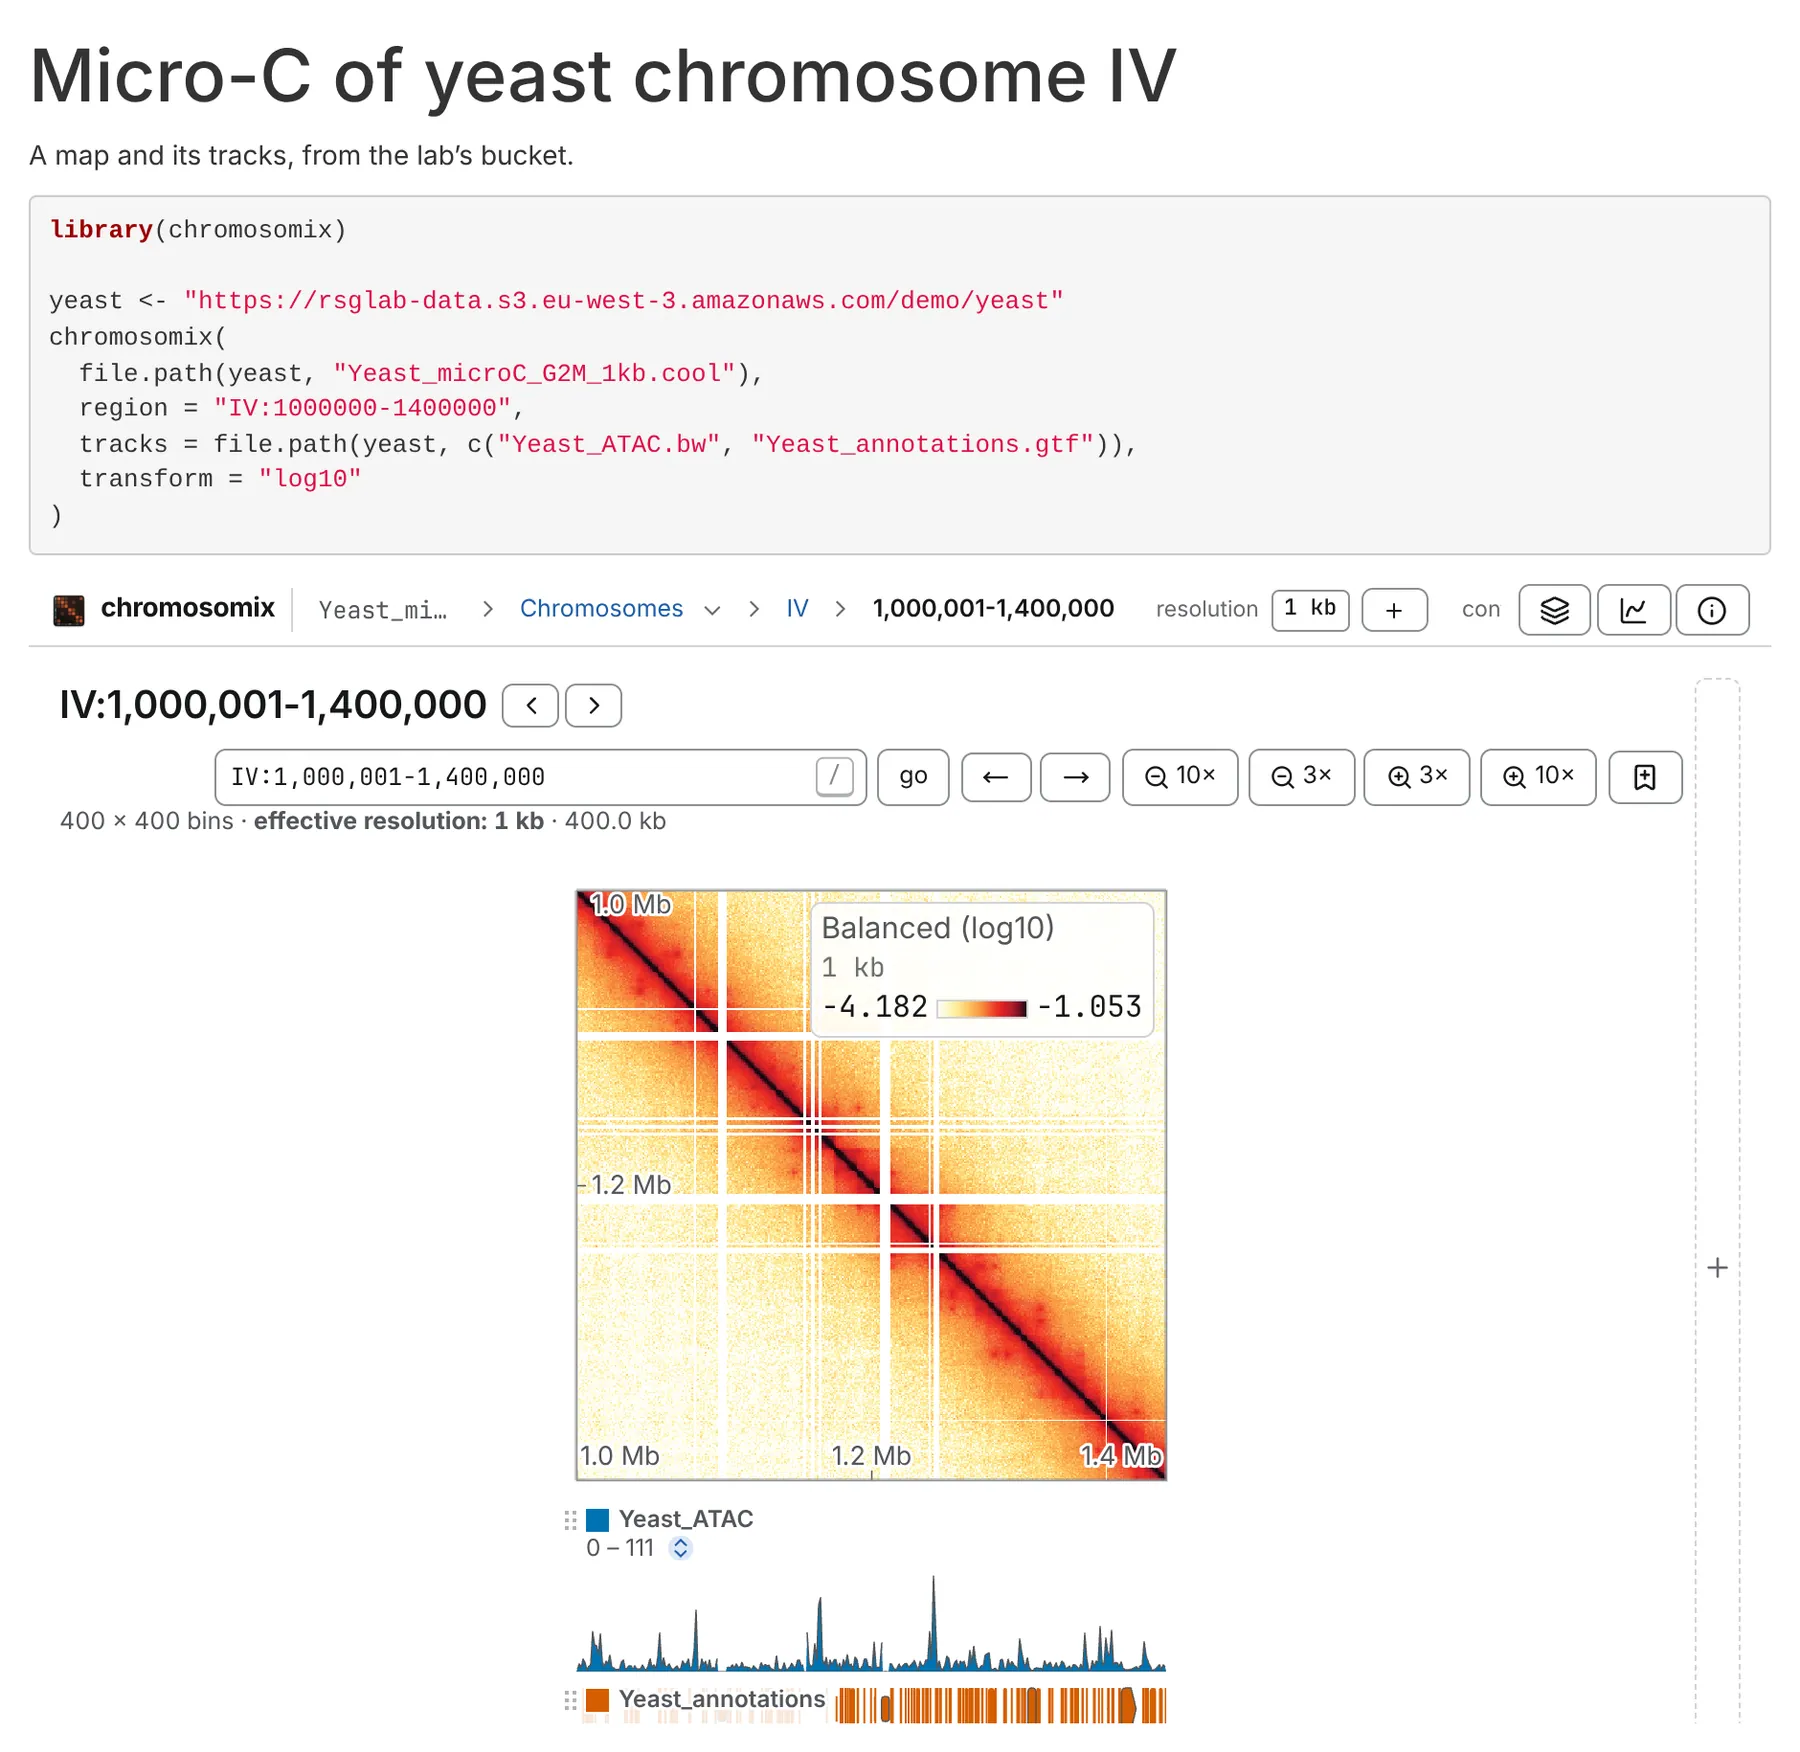
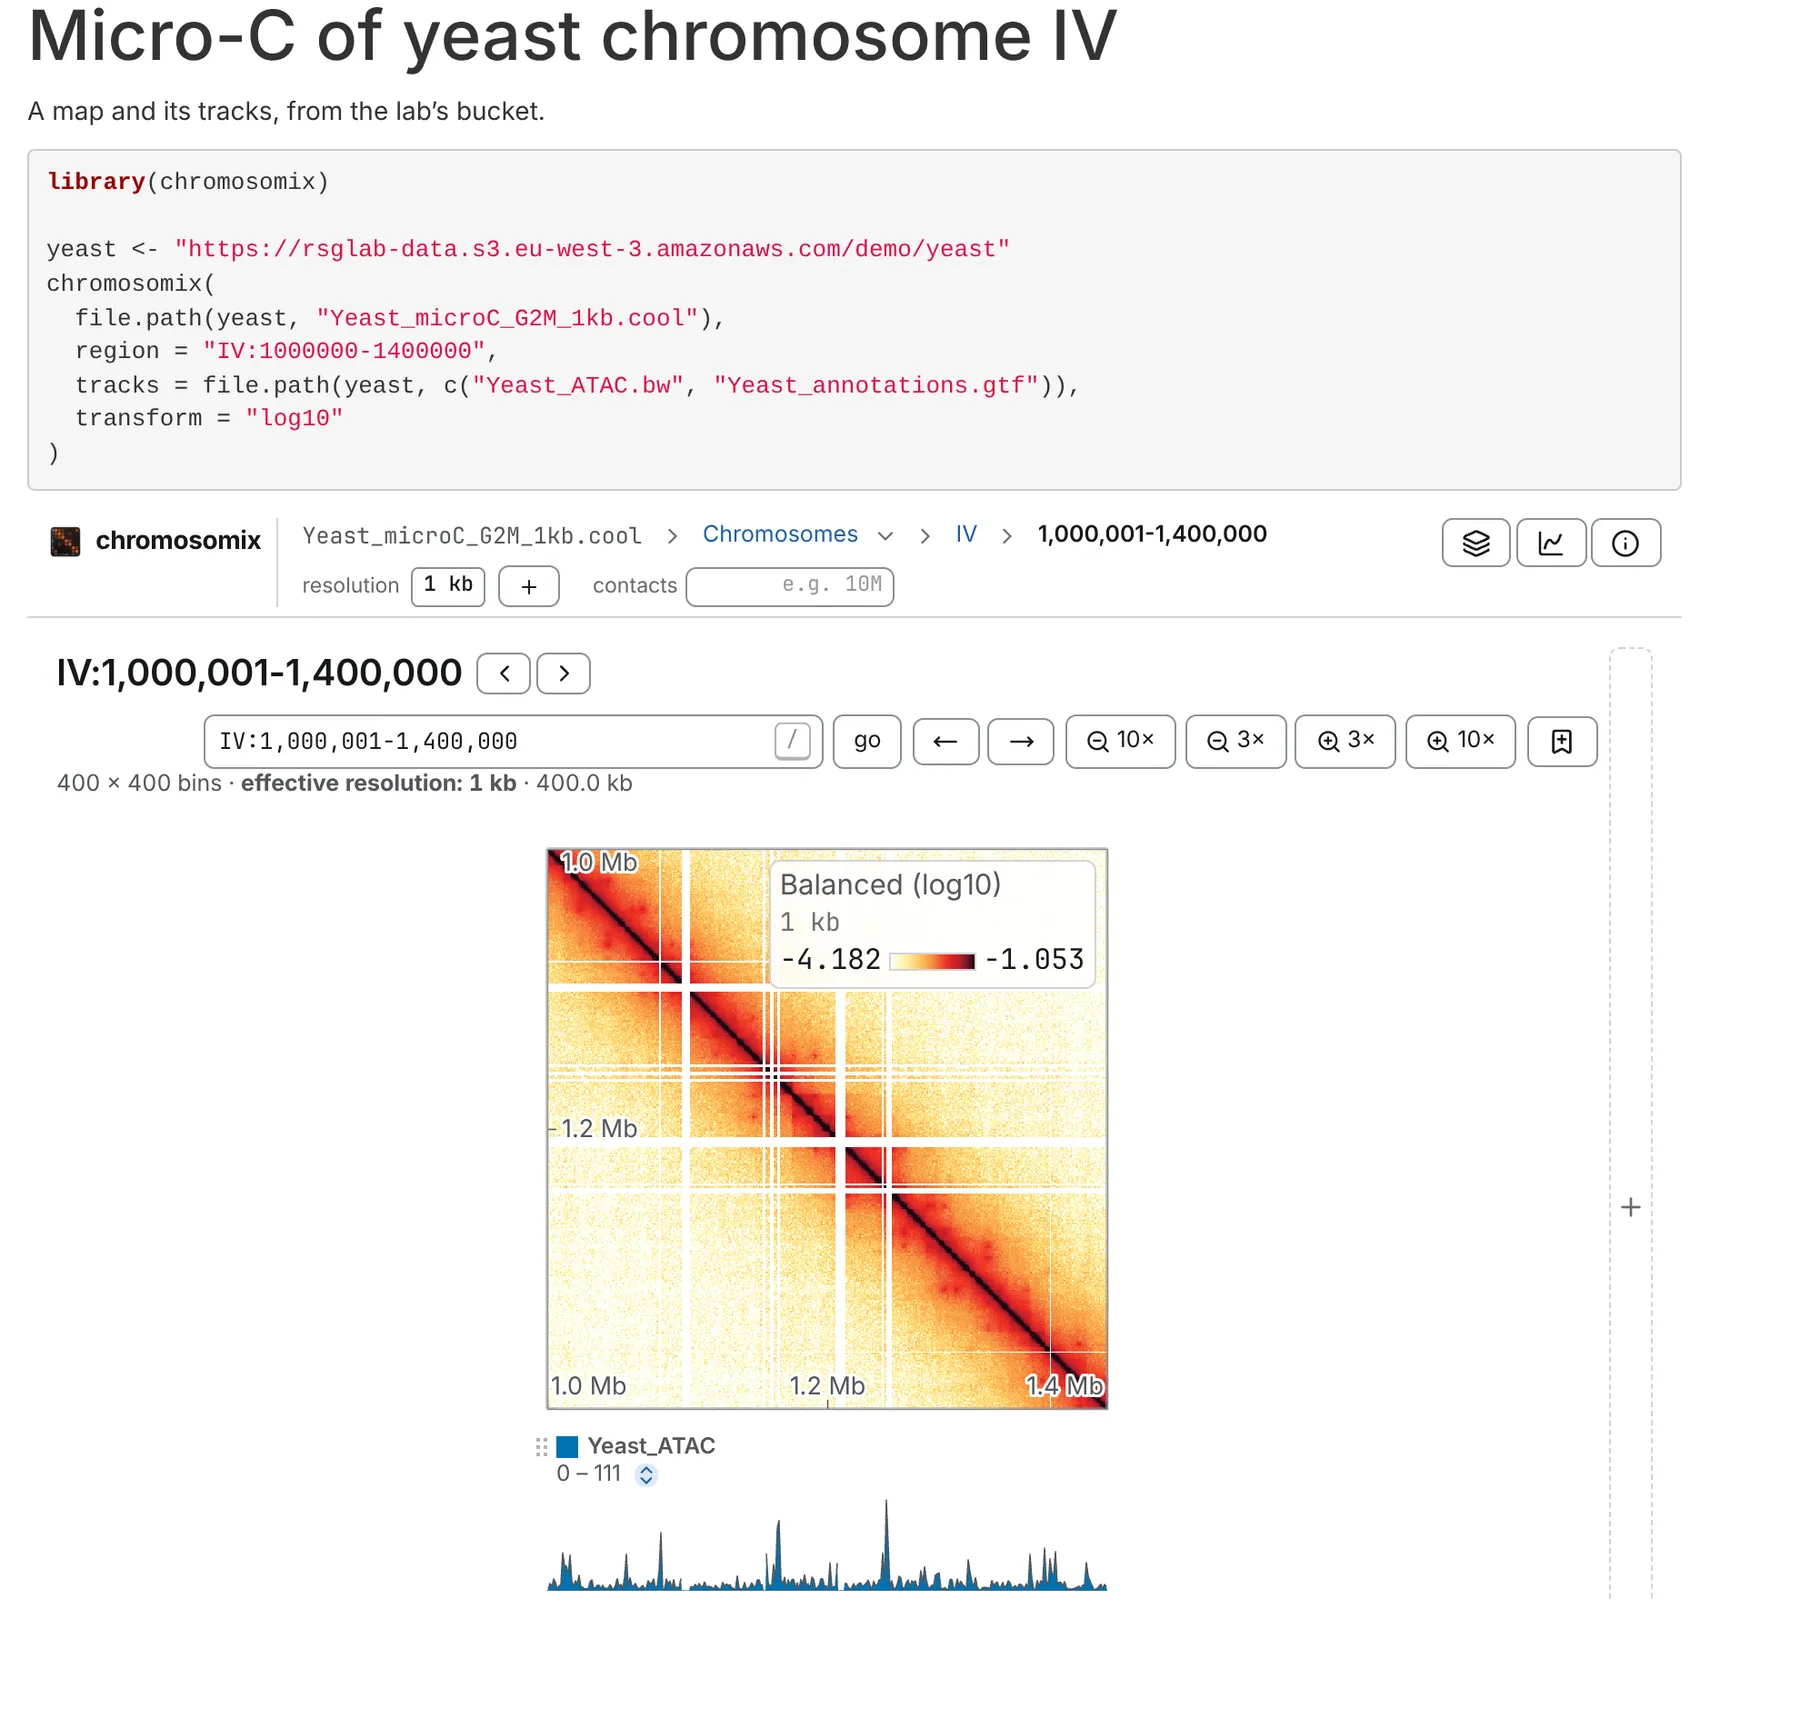
Fit the embed's bar to narrower frames
The embed's one bar is the breadcrumb row with the brand before it and
three buttons after, and the row scrolled: in a 1,040-pixel frame the
contacts box's example was cut, at 910 (an R Markdown page) the row
ended at `con`, at 720 the resolution and the box were out of sight,
and at 480 the frame scrolled sideways.

Inside the frame the viewport is the frame, so the bar now answers
media queries, in an order. Below 72rem the two controls of how the
picture is drawn take a line of their own under the trail, together
and labelled: a zero-height break ordered between the trail and them,
since plain wrapping took the box away from the resolution first. The
trail then names the file in full where it fits. Below 50rem the brand
keeps its mark; below 34rem the contacts box is put away and the
resolution kept. The brand and the buttons stay on the first line.

A text test holds the order, as deck-plot-css does, since jsdom has no
layout. SPECS §21.3 and the web page and R pages say it, and their two
pictures are shot again at the widths they were shot at.

Claude-Session: https://claude.ai/code/session_01QfBPScuoXjxFCo2qEinH72

diff --git a/test/unit/embed-bar-css.test.ts b/test/unit/embed-bar-css.test.ts
@@ -1,0 +1,85 @@
+/**
+ * The order an embed's one bar gives way in, as its frame narrows (SPECS §21.3).
+ *
+ * The bar is the breadcrumb row with the brand before it and three buttons
+ * after, and the row scrolled: in a frame of 1,040 pixels the contacts box's
+ * example was cut, at 910 — an R Markdown page — the row ended at `con`, and at
+ * 720 the resolution and the box were gone with nothing to say they were
+ * there. Inside the frame the viewport is the frame, so the bar answers media
+ * queries, and what is pinned here is their order:
+ *
+ * 1. the two controls of how the picture is drawn take a line of their own,
+ *    *together* — a zero-height break ordered between the trail and them, since
+ *    plain wrapping takes the last item, the box, away from the resolution;
+ * 2. then the brand's name goes, its mark staying;
+ * 3. then, at a phone's width, the contacts box — never the resolution.
+ *
+ * A text test, as `deck-plot-css.test.ts` is, because jsdom has no layout.
+ */
+
+import { readFileSync } from 'node:fs'
+import { fileURLToPath } from 'node:url'
+
+import { describe, expect, it } from 'vitest'
+
+const css = readFileSync(fileURLToPath(new URL('../../src/ui/styles.css', import.meta.url)), 'utf8')
+
+/** Every `@media (max-width: …rem)` block, with its width and its body, braces matched. */
+function mediaBlocks(): Array<{ rem: number; body: string }> {
+  const out: Array<{ rem: number; body: string }> = []
+  const opener = /@media \(max-width: ([\d.]+)rem\) \{/g
+  for (let match = opener.exec(css); match !== null; match = opener.exec(css)) {
+    let depth = 1
+    let at = opener.lastIndex
+    while (depth > 0 && at < css.length) {
+      if (css[at] === '{') depth++
+      else if (css[at] === '}') depth--
+      at++
+    }
+    out.push({ rem: Number(match[1]), body: css.slice(opener.lastIndex, at - 1) })
+  }
+  return out
+}
+
+/** The width of the one block that holds `needle`, which must be exactly one. */
+function widthOf(needle: RegExp): number {
+  const blocks = mediaBlocks().filter((block) => needle.test(block.body))
+  expect(blocks, `one @media block holds ${needle}`).toHaveLength(1)
+  return blocks[0].rem
+}
+
+/** The declarations of `selector` inside the block of width `rem`. */
+function declarationsIn(rem: number, selector: string): string {
+  const block = mediaBlocks().find((candidate) => candidate.rem === rem)
+  expect(block, `a block at ${rem}rem`).toBeDefined()
+  const at = block?.body.indexOf(`${selector} {`) ?? -1
+  expect(at, `${selector} at ${rem}rem`).toBeGreaterThanOrEqual(0)
+  const body = block?.body.slice(at) ?? ''
+  return body.slice(body.indexOf('{') + 1, body.indexOf('}'))
+}
+
+describe('the embed’s bar in a narrowing frame', () => {
+  const ownLine = widthOf(/\.embed-bar \.breadcrumb::before/)
+  const noName = widthOf(/\.embed-brand-name \{\s*display: none/)
+  const noBox = widthOf(/\.embed-bar \.breadcrumb > \.crumb-contacts \{\s*display: none/)
+
+  it('gives way in one order: the controls’ own line, then the brand’s name, then the box', () => {
+    expect(ownLine).toBeGreaterThan(noName)
+    expect(noName).toBeGreaterThan(noBox)
+  })
+
+  it('moves the resolution and the box together, after a break that takes the whole line', () => {
+    expect(declarationsIn(ownLine, '.embed-bar .breadcrumb')).toMatch(/flex-wrap: wrap/)
+    const rule = declarationsIn(ownLine, '.embed-bar .breadcrumb::before')
+    expect(rule).toMatch(/order: 1/)
+    expect(rule).toMatch(/flex: 0 0 100%/)
+    const controls = mediaBlocks().find((block) => block.rem === ownLine)?.body ?? ''
+    expect(controls).toMatch(/\.embed-bar \.breadcrumb > \.crumb-res,\s*\.embed-bar \.breadcrumb > \.crumb-contacts \{\s*order: 2/)
+  })
+
+  it('never puts the resolution away', () => {
+    for (const block of mediaBlocks()) {
+      expect(block.body, `@media (max-width: ${block.rem}rem)`).not.toMatch(/\.crumb-res[^{]*\{[^}]*display: none/)
+    }
+  })
+})

diff --git a/src/ui/styles.css b/src/ui/styles.css
@@ -1738,6 +1738,75 @@ p {
 }
 
 /*
+ * **A narrower frame gives way in an order, rather than clipping the row's
+ * end** (§21.3). The breadcrumb is one row that scrolls, and the end that
+ * scrolled out of sight was the resolution and the contacts box: at 1,040
+ * pixels the box's example was cut, at 910 — an R Markdown page's width — the
+ * row ended at `con`, and at 720 the two were gone, with nothing saying they
+ * were there to be scrolled to. Frames that narrow are where an embed lives: a
+ * notebook cell, a rendered report, a paper's supplement.
+ *
+ * In the frame the viewport *is* the frame, so these are media queries. First
+ * the two controls that say how the picture is drawn take a line of their own
+ * under the trail, together and with their labels: a zero-height break,
+ * ordered between the trail and them, is what keeps the pair from being
+ * split, as plain wrapping split it — the last item, the box, went first. The
+ * trail then has a line to itself, so the file is named in full where it fits,
+ * and the brand and the three buttons keep to the first line. Then the brand
+ * keeps its mark and lets its name go, which keeps the trail on one line down
+ * to 720 pixels: the mark is still the link out, and About still says whose
+ * viewer this is. Last, in a frame a phone could be, the contacts box is put
+ * away and the resolution kept: of the two it is the one a reader looks at one
+ * figure with, and the total every map is drawn to is a press away, in the
+ * full viewer the mark opens.
+ */
+@media (max-width: 72rem) {
+  .embed-bar {
+    align-items: flex-start;
+  }
+
+  .embed-bar > .embed-brand {
+    margin-top: 0.2rem;
+  }
+
+  .embed-bar .breadcrumb {
+    flex-wrap: wrap;
+    overflow-x: visible;
+    row-gap: 0.15rem;
+  }
+
+  .embed-bar .breadcrumb::before {
+    content: '';
+    order: 1;
+    flex: 0 0 100%;
+    height: 0;
+  }
+
+  .embed-bar .breadcrumb > .crumb-res,
+  .embed-bar .breadcrumb > .crumb-contacts {
+    order: 2;
+  }
+
+  .embed-bar .breadcrumb > .crumb-res,
+  .embed-bar .breadcrumb > .crumb-contacts:first-of-type {
+    margin-left: 0;
+    padding-left: 0.25rem;
+  }
+}
+
+@media (max-width: 50rem) {
+  .embed-brand-name {
+    display: none;
+  }
+}
+
+@media (max-width: 34rem) {
+  .embed-bar .breadcrumb > .crumb-contacts {
+    display: none;
+  }
+}
+
+/*
  * The centre column, and the part of the app the theme reaches last.
  *
  * A contact map is a *figure*. Its colormaps are built for ink on white, the

diff --git a/documentation/src/content/docs/embed/web-page.md b/documentation/src/content/docs/embed/web-page.md
@@ -47,9 +47,15 @@ Above the view, one bar holds what a figure in somebody else's page owes its rea
 - next to it, the breadcrumb: the file, and where the reader is in it;
 - on the right, the buttons that open the **Annotations** and **Aesthetics** panels — each hidden while its panel has nothing to show — and **About this viewer**, which says what the viewer is, that nothing is uploaded, which build is in the frame, and where its source is.
 
+In a narrower frame the bar takes a second line rather than cutting anything off: the resolution and
+the contacts box move under the file and the place, together and with their labels, which is how an
+R Markdown page or a column of a lab's site shows it. Narrower still, the mark stands without the
+name beside it, and in a frame as narrow as a phone the contacts box is put away and the resolution
+kept; the full viewer, which the mark opens, has both.
+
 Notes about the file, and refusals, appear under the bar as they do in the app.
 
-![A plain web page with a heading, a paragraph and an embedded Micro-C map of yeast chromosome IV from 1.0 to 1.4 Mb; above the map the embed's one bar holds the chromosomix mark and name, the breadcrumb, the resolution and the buttons for the two panels and About, and the Annotations and Aesthetics panels are folded as strips on either edge.](../../../assets/screens/embed/web-page-iframe.webp)
+![A plain web page with a heading, a paragraph and an embedded Micro-C map of yeast chromosome IV from 1.0 to 1.4 Mb; above the map the embed's one bar holds the chromosomix mark and name, the breadcrumb and, on a second line under it, the resolution and the contacts box, with the buttons for the two panels and About on the right, and the Annotations and Aesthetics panels are folded as strips on either edge.](../../../assets/screens/embed/web-page-iframe.webp)
 
 ## Driving it from the page
 

diff --git a/SPECS.md b/SPECS.md
@@ -11315,6 +11315,19 @@ copying it copies where the reader actually is.
 **The file and where they are in it**, next: the ordinary breadcrumb (§5.5), in the same slot the
 session fills in a window, with its own frame taken off so the row reads as one bar.
 
+**A narrower frame gives way in an order, and nothing is cut off.** The breadcrumb is one row that
+scrolls, and the end it scrolled out of sight was the resolution and the contacts box: at 1,040
+pixels the box's example was cut, at 910 — an R Markdown page's width — the row ended at `con`, at
+720 both were gone with nothing to say so, and at 480 the frame itself scrolled sideways. Inside the
+frame the viewport is the frame, so the bar answers media queries (`styles.css`): below 72rem the two
+controls of how the picture is drawn take a line of their own under the trail, together and with
+their labels — a zero-height break ordered between the trail and them, since plain wrapping takes the
+last item, the box, away from the resolution — and the trail names the file in full where it fits;
+below 50rem the brand keeps its mark and lets its name go; below 34rem, a phone's width, the contacts
+box is put away and the resolution kept, since it is the one of the two a reader looks at one figure
+with, and the full viewer the mark opens has both. The brand and the three buttons keep to the first
+line throughout (`test/unit/embed-bar-css.test.ts` holds the order).
+
 **The two panel toggles and About**, right. The toggles are the panels' *own* buttons — the same
 objects the header holds in a window, so there is one fold path and not a second written for frames —
 and each hides itself when its column has nothing to show. About is the same dialog the header opens,

diff --git a/CHANGELOG.md b/CHANGELOG.md
@@ -39,6 +39,12 @@ it can be ahead of the newest entry here. Its exact build is in **About → vers
 
 ### Fixed
 
+- **An embed's bar fits a narrower frame (§21.3).** The bar was one row that scrolled, so in a frame
+  of 1,040 pixels the contacts box's example was cut, at 910, the width of an R Markdown page, the row
+  ended at `con`, at 720 the resolution and the box were out of sight, and at 480 the frame scrolled
+  sideways. The two now take a line of their own under the file and the place, together and with
+  their labels, and the file is named in full where it fits; narrower, the brand keeps its mark
+  alone; and at a phone's width the contacts box is put away and the resolution kept.
 - **The pointer gives a derived cell's reading and the count behind it (§7.5).** On one map drawn as
   O/E, the line under the map read `O/E 1.95× · balanced 1.95`, the count being the ratio drawn
   again, over a cell whose balanced count was 0.000537; and the card beside the pointer gave

diff --git a/documentation/src/content/docs/embed/r.md b/documentation/src/content/docs/embed/r.md
@@ -35,7 +35,7 @@ chromosomix(
 
 At the console it opens in the RStudio viewer; in a chunk of an R Markdown or Quarto document, it is drawn on the rendered HTML page.
 
-![An R Markdown page rendered to HTML, showing the chunk above and under it the widget: the viewer's bar and the yeast Micro-C map of IV:1.0–1.4 Mb on a log10 scale, with its ATAC-seq track and the start of its gene track.](../../../assets/screens/embed/r-markdown-widget.webp)
+![An R Markdown page rendered to HTML, showing the chunk above and under it the widget: the viewer's bar, on two lines at this width, and the yeast Micro-C map of IV:1.0–1.4 Mb on a log10 scale, with its ATAC-seq track under it.](../../../assets/screens/embed/r-markdown-widget.webp)
 
 | Argument | What it is |
 | --- | --- |
